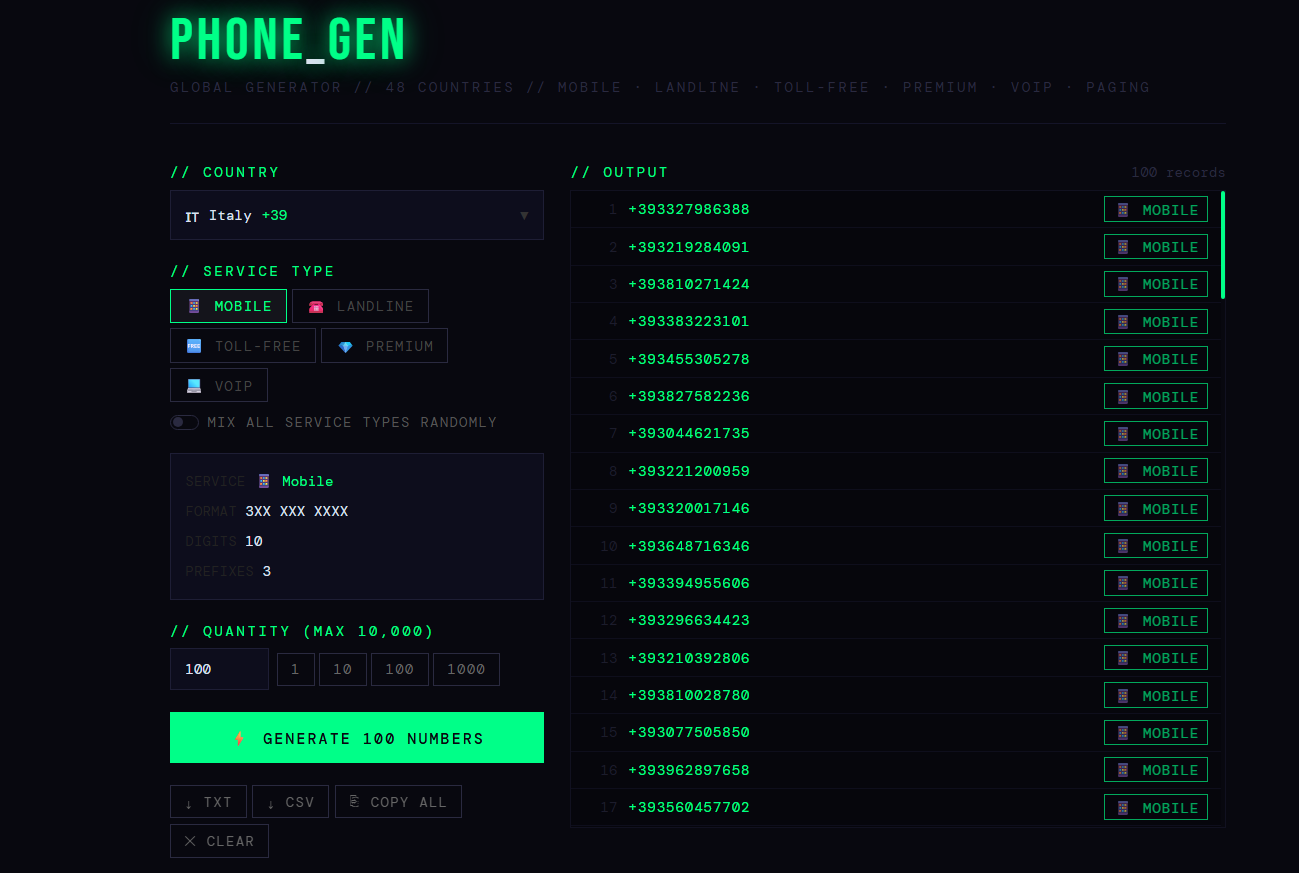
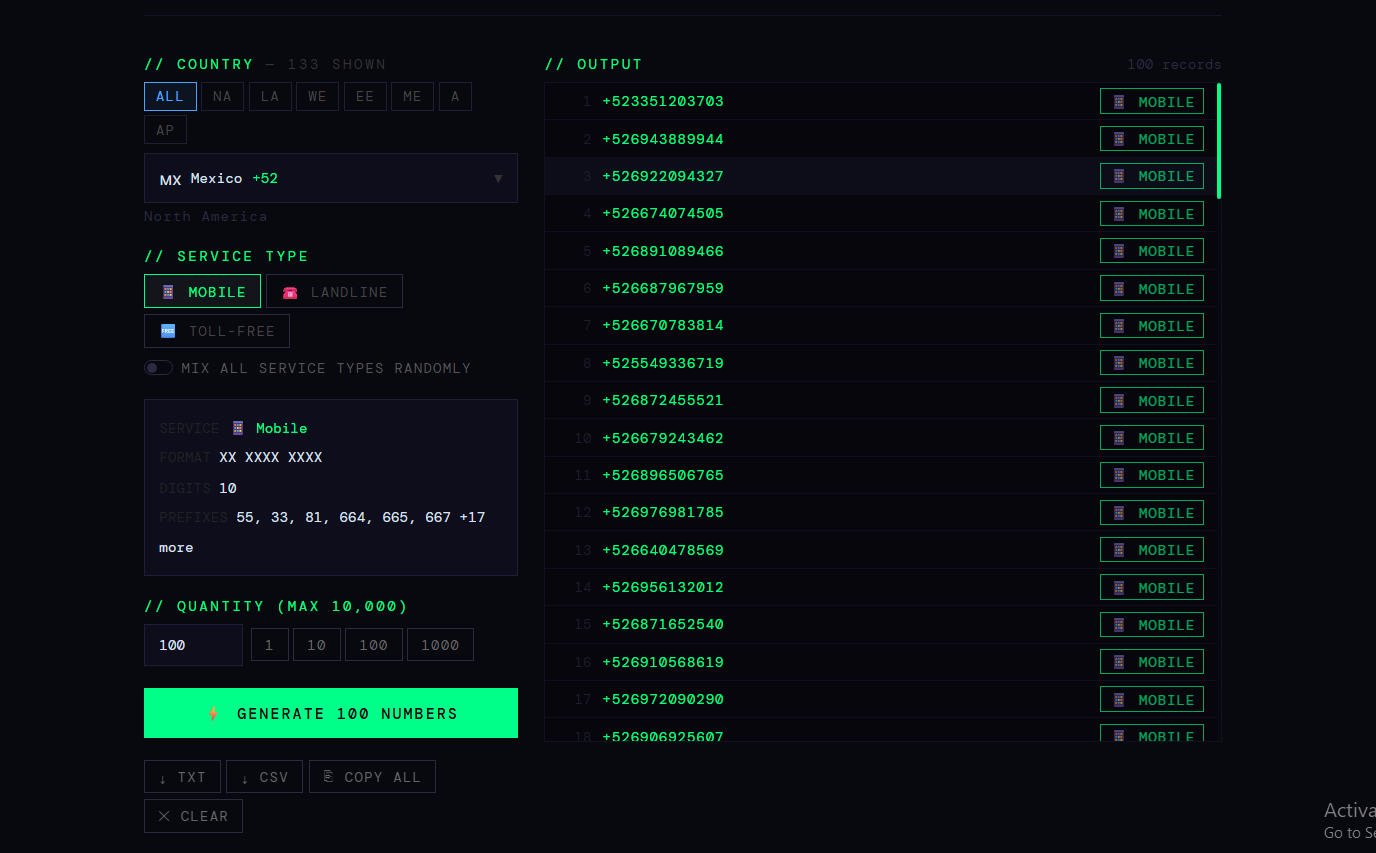
update README for v3.0 - 150+ countries

diff --git a/README.md b/README.md
@@ -1,6 +1,6 @@
 # 📱 Phone_Gen
 
-> A global phone number generator for developers and testers — supporting 50+ countries and 6 service types.
+> A global phone number generator for developers and testers — supporting 150+ countries, 8 regions and 6 service types.
 
 ![Phone_Gen Demo](./demo.gif)
 
@@ -8,18 +8,20 @@
 
 ## 🌍 Overview
 
-**Phone_Gen** is a sleek, developer-focused tool that generates realistic phone numbers for any country in the world. Built for QA testing, database seeding, UI mockups, and development environments where real phone numbers shouldn't be used.
+**Phone_Gen** is a dev tool that generates realistic phone numbers for any country in the world. Built for QA testing, database seeding, and development environments where real phone numbers shouldn't be used.
 
 ---
 
 ## ✨ Features
 
-- 🌐 **50+ countries** with accurate dial codes, formats, and digit lengths
+- 🌐 **150+ countries** with accurate dial codes, formats and digit lengths
+- 🗺 **8 regions** — North America, Latin America, Western Europe, Eastern Europe, Middle East, Africa, Asia Pacific
 - 📋 **6 service types** — Mobile, Landline, Toll-Free, Premium, VoIP, Paging
+- 🔍 **Region filter** to quickly narrow down the country dropdown
 - ⚡ **Bulk generation** — up to 10,000 numbers at once
 - 🔀 **Mix mode** — randomly blend all service types in one batch
-- 📊 **Breakdown panel** — visual breakdown of generated number types
-- 💾 **Export to TXT or CSV** with country and service metadata
+- 📊 **Breakdown panel** — visual bar chart of generated number types
+- 💾 **Export to TXT or CSV** with country, region and service metadata
 - ⎘ **Copy to clipboard** in one click
 - 🖥 Clean terminal-inspired dark UI
 
@@ -27,11 +29,36 @@
 
 ## 🖼 Screenshots
 
-> _Add your screenshots here after taking them_
-
 | Country Selector | Bulk Generation | Export |
 |---|---|---|
 | ![](./screenshots/screenshot-1.png) | ![](./screenshots/screenshot-2.png) | ![](./screenshots/screenshot-3.png) |
+
+---
+
+## 🗺 Supported Regions & Countries
+
+| Region | Countries |
+|---|---|
+| 🌎 North America | United States, Canada, Mexico |
+| 🌎 Latin America | Brazil, Argentina, Colombia, Chile, Peru, Venezuela, Ecuador, Bolivia, Paraguay, Uruguay, Cuba, Dominican Republic, Guatemala, Costa Rica, Panama, Jamaica, Trinidad and Tobago, Honduras, El Salvador, Nicaragua |
+| 🌍 Western Europe | United Kingdom, France, Germany, Spain, Italy, Netherlands, Belgium, Sweden, Norway, Denmark, Finland, Switzerland, Austria, Portugal, Ireland, Greece, Luxembourg, Malta, Iceland, Cyprus |
+| 🌍 Eastern Europe | Russia, Poland, Ukraine, Romania, Czech Republic, Hungary, Bulgaria, Serbia, Croatia, Slovakia, Belarus, Moldova, Albania, Bosnia and Herzegovina, North Macedonia, Slovenia, Estonia, Latvia, Lithuania |
+| 🌍 Middle East | Saudi Arabia, UAE, Israel, Turkey, Iran, Iraq, Jordan, Lebanon, Kuwait, Qatar, Bahrain, Oman, Yemen, Syria, Palestine |
+| 🌍 Africa | Nigeria, South Africa, Kenya, Egypt, Ethiopia, Tanzania, Ghana, Uganda, Morocco, Algeria, Tunisia, Cameroon, Ivory Coast, Senegal, Angola, Mozambique, Madagascar, Zambia, Zimbabwe, Rwanda, Botswana, Namibia, Mali, Burkina Faso, Sudan, Liberia |
+| 🌏 Asia Pacific | China, India, Japan, South Korea, Australia, Indonesia, Pakistan, Bangladesh, Vietnam, Thailand, Malaysia, Philippines, Singapore, New Zealand, Sri Lanka, Nepal, Myanmar, Cambodia, Taiwan, Hong Kong, Macau, Mongolia, Kazakhstan, Uzbekistan, Azerbaijan, Georgia, Armenia, Kyrgyzstan, Papua New Guinea, Fiji |
+
+---
+
+## 📋 Supported Service Types
+
+| Type | Icon | Description | Example |
+|---|---|---|---|
+| Mobile | 📱 | Cellular numbers with real carrier prefixes | `+1 917 XXX XXXX` |
+| Landline | ☎ | Geographic area-code fixed lines | `+44 20 XXXX XXXX` |
+| Toll-Free | 🆓 | Free-to-call 800/1800 numbers | `+1 800 XXX XXXX` |
+| Premium | 💎 | Pay-per-call 900 rate numbers | `+1 900 XXX XXXX` |
+| VoIP | 💻 | Internet-based phone numbers | `+33 9X XX XX XX` |
+| Paging | 📟 | Pager/beeper numbers | `+1 638 XXX XXXX` |
 
 ---
 
@@ -56,10 +83,10 @@
 
 ```bash
 # Clone the repository
-git clone https://github.com/YOUR_USERNAME/phone-gen.git
+git clone https://github.com/RachidBoutaguiout/Phone_gen.git
 
 # Navigate into the project
-cd phone-gen
+cd Phone_gen
 
 # Install dependencies
 npm install
@@ -82,12 +109,13 @@ Output will be in the `dist/` folder, ready to deploy.
 
 ## 📖 How to Use
 
-1. **Select a country** from the searchable dropdown
-2. **Choose a service type** — Mobile, Landline, Toll-Free, Premium, VoIP, or Paging
-3. **Set the quantity** — type a number or use the quick-select buttons (1 / 10 / 100 / 1000)
-4. **Toggle Mix mode** to generate numbers across all service types randomly
-5. **Click Generate** ⚡
-6. **Export** as `.txt` or `.csv`, or copy to clipboard
+1. **Filter by region** using the region buttons to narrow down the list
+2. **Select a country** from the searchable dropdown
+3. **Choose a service type** — Mobile, Landline, Toll-Free, Premium, VoIP, or Paging
+4. **Set the quantity** — type a number or use the quick-select buttons (1 / 10 / 100 / 1000)
+5. **Toggle Mix mode** to generate numbers across all service types randomly
+6. **Click Generate** ⚡
+7. **Export** as `.txt` or `.csv`, or copy all to clipboard
 
 ---
 
@@ -97,26 +125,18 @@ Output will be in the `dist/` folder, ready to deploy.
 phone-gen/
 ├── public/
 ├── src/
-│   ├── App.jsx        # Main component (all logic + UI)
+│   ├── App.jsx        # Main component — all logic + UI + country data
 │   ├── main.jsx       # React entry point
 │   └── index.css      # Global reset styles
+├── screenshots/
+│   ├── screenshot-1.png
+│   ├── screenshot-2.png
+│   └── screenshot-3.png
+├── demo.gif
 ├── index.html
 ├── vite.config.js
 └── README.md
 ```
-
----
-
-## 🗺 Supported Service Types
-
-| Type | Description | Example |
-|---|---|---|
-| 📱 Mobile | Cellular numbers with real carrier prefixes | `+1 917 XXX XXXX` |
-| ☎ Landline | Geographic area-code fixed lines | `+44 20 XXXX XXXX` |
-| 🆓 Toll-Free | Free-to-call 800/1800 numbers | `+1 800 XXX XXXX` |
-| 💎 Premium | Pay-per-call 900 rate numbers | `+1 900 XXX XXXX` |
-| 💻 VoIP | Internet-based phone numbers | `+33 9X XX XX XX` |
-| 📟 Paging | Pager/beeper numbers | `+1 638 XXX XXXX` |
 
 ---
 
@@ -133,7 +153,7 @@ This project is licensed under the **MIT License**.
 ```
 MIT License
 
-Copyright (c) 2026 YOUR_NAME
+Copyright (c) 2026 Rachid Boutaguiout
 
 Permission is hereby granted, free of charge, to any person obtaining a copy
 of this software and associated documentation files (the "Software"), to deal
@@ -156,4 +176,4 @@ SOFTWARE.
 
 ---
 
-<p align="center">Built with ❤ by <a href="https://github.com/YOUR_USERNAME">YOUR_NAME</a></p>
+<p align="center">Built with ❤ by <a href="https://github.com/RachidBoutaguiout">Rachid Boutaguiout</a></p>
